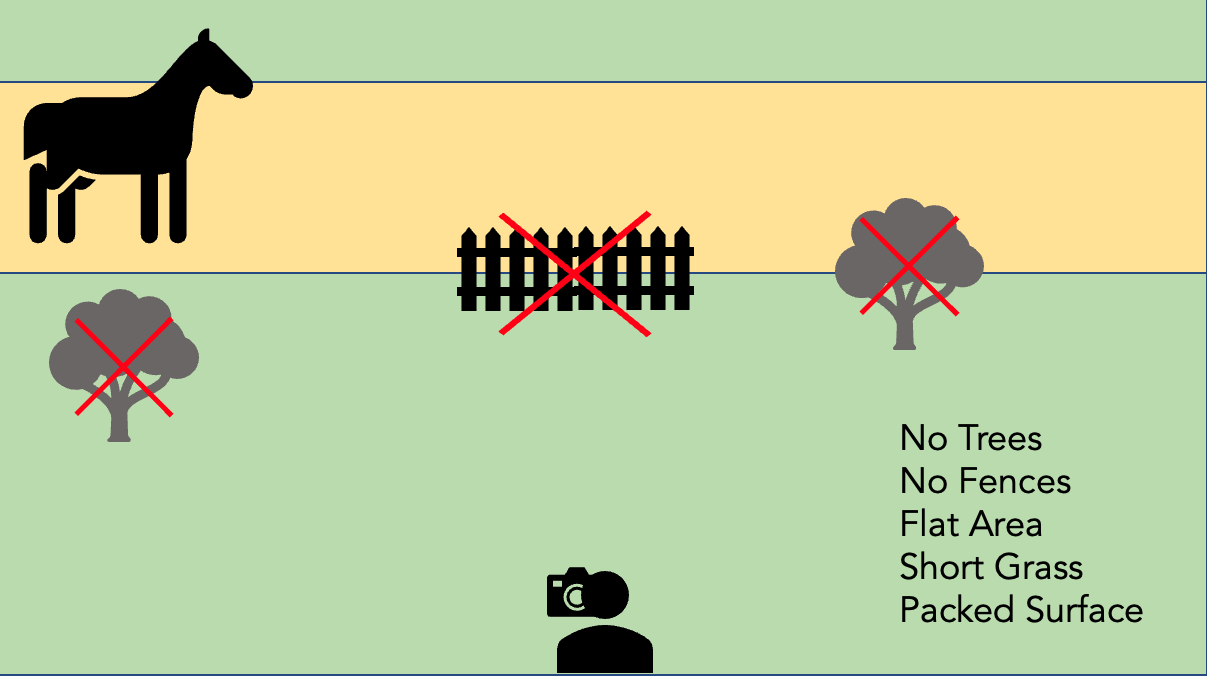
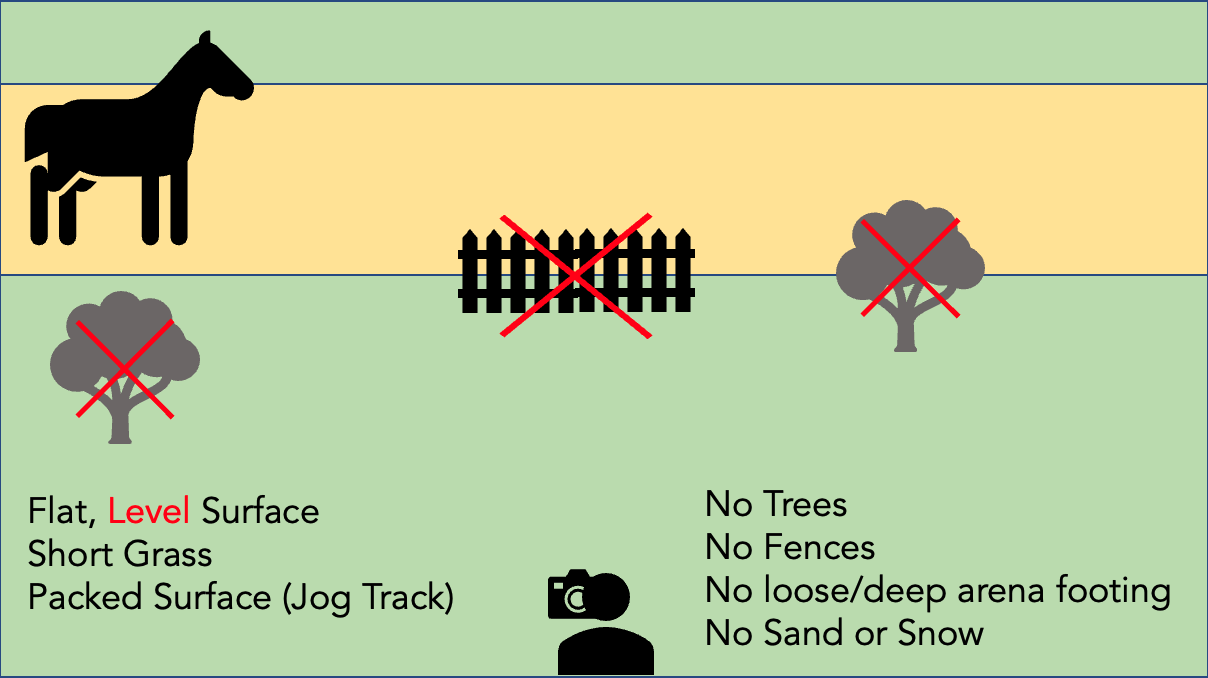
Added profile set population logic to initState of the dashboard landing page. Updated upload tutorial slides.

diff --git a/lib/pages/dashboard/widgets/dashboard_body.dart b/lib/pages/dashboard/widgets/dashboard_body.dart
@@ -1,9 +1,43 @@
 import 'package:equine_ai/pages/dashboard/widgets/parameter_list.dart';
 import 'package:equine_ai/styles/dashboard_styles.dart';
+import 'package:firebase_database/firebase_database.dart';
 import 'package:flutter/material.dart';
+import 'package:get/get.dart';
 
-class DashboardBody extends StatelessWidget {
+import '../../login/global_state_management.dart';
+import '../../profile/widgets/equine_profile.dart';
+
+class DashboardBody extends StatefulWidget {
   const DashboardBody({Key? key}) : super(key: key);
+
+  @override
+  _DashboardBodyState createState() => _DashboardBodyState();
+}
+class _DashboardBodyState extends State<DashboardBody> {
+  @override
+  void initState() {
+    super.initState();
+    _loadEquineProfiles();
+  }
+
+  Future<void> _loadEquineProfiles() async {
+    DatabaseReference profileRef = databaseReference.child('equine_profiles').child(uid!.value);
+    profileRef.onValue.first.then((DatabaseEvent event) {
+      DataSnapshot dataSnapshot = event.snapshot;
+      Map<String, dynamic>? profilesData = dataSnapshot.value as Map<String, dynamic>?;
+
+      if (profilesData != null) {
+        for (var key in profilesData.keys) {
+          var profile = profilesData[key];
+          if (profile != null) {
+            setState(() {
+            });
+            equineProfileNames.add(profile['name']).obs;
+          }
+        }
+      }
+    });
+  }
 
   final String firstHeading = "Unscaled Parameters";
   final String secondHeading = "Scaled Parameters";

diff --git a/lib/pages/upload/upload_data_page.dart b/lib/pages/upload/upload_data_page.dart
@@ -110,6 +110,7 @@ class _UploadDataPageState extends State<UploadDataPage> {
                   'slide3.png',
                   'slide4.png',
                   'slide5.png',
+                  'slide6.png',
                 ].map((imagePath) {
                   return Builder(
                     builder: (BuildContext context) {
@@ -134,7 +135,7 @@ class _UploadDataPageState extends State<UploadDataPage> {
                 ),
                 Row(
                   mainAxisAlignment: MainAxisAlignment.center,
-                  children: List.generate(5, (index) {
+                  children: List.generate(6, (index) {
                     return Container(
                       width: 8.0,
                       height: 8.0,
